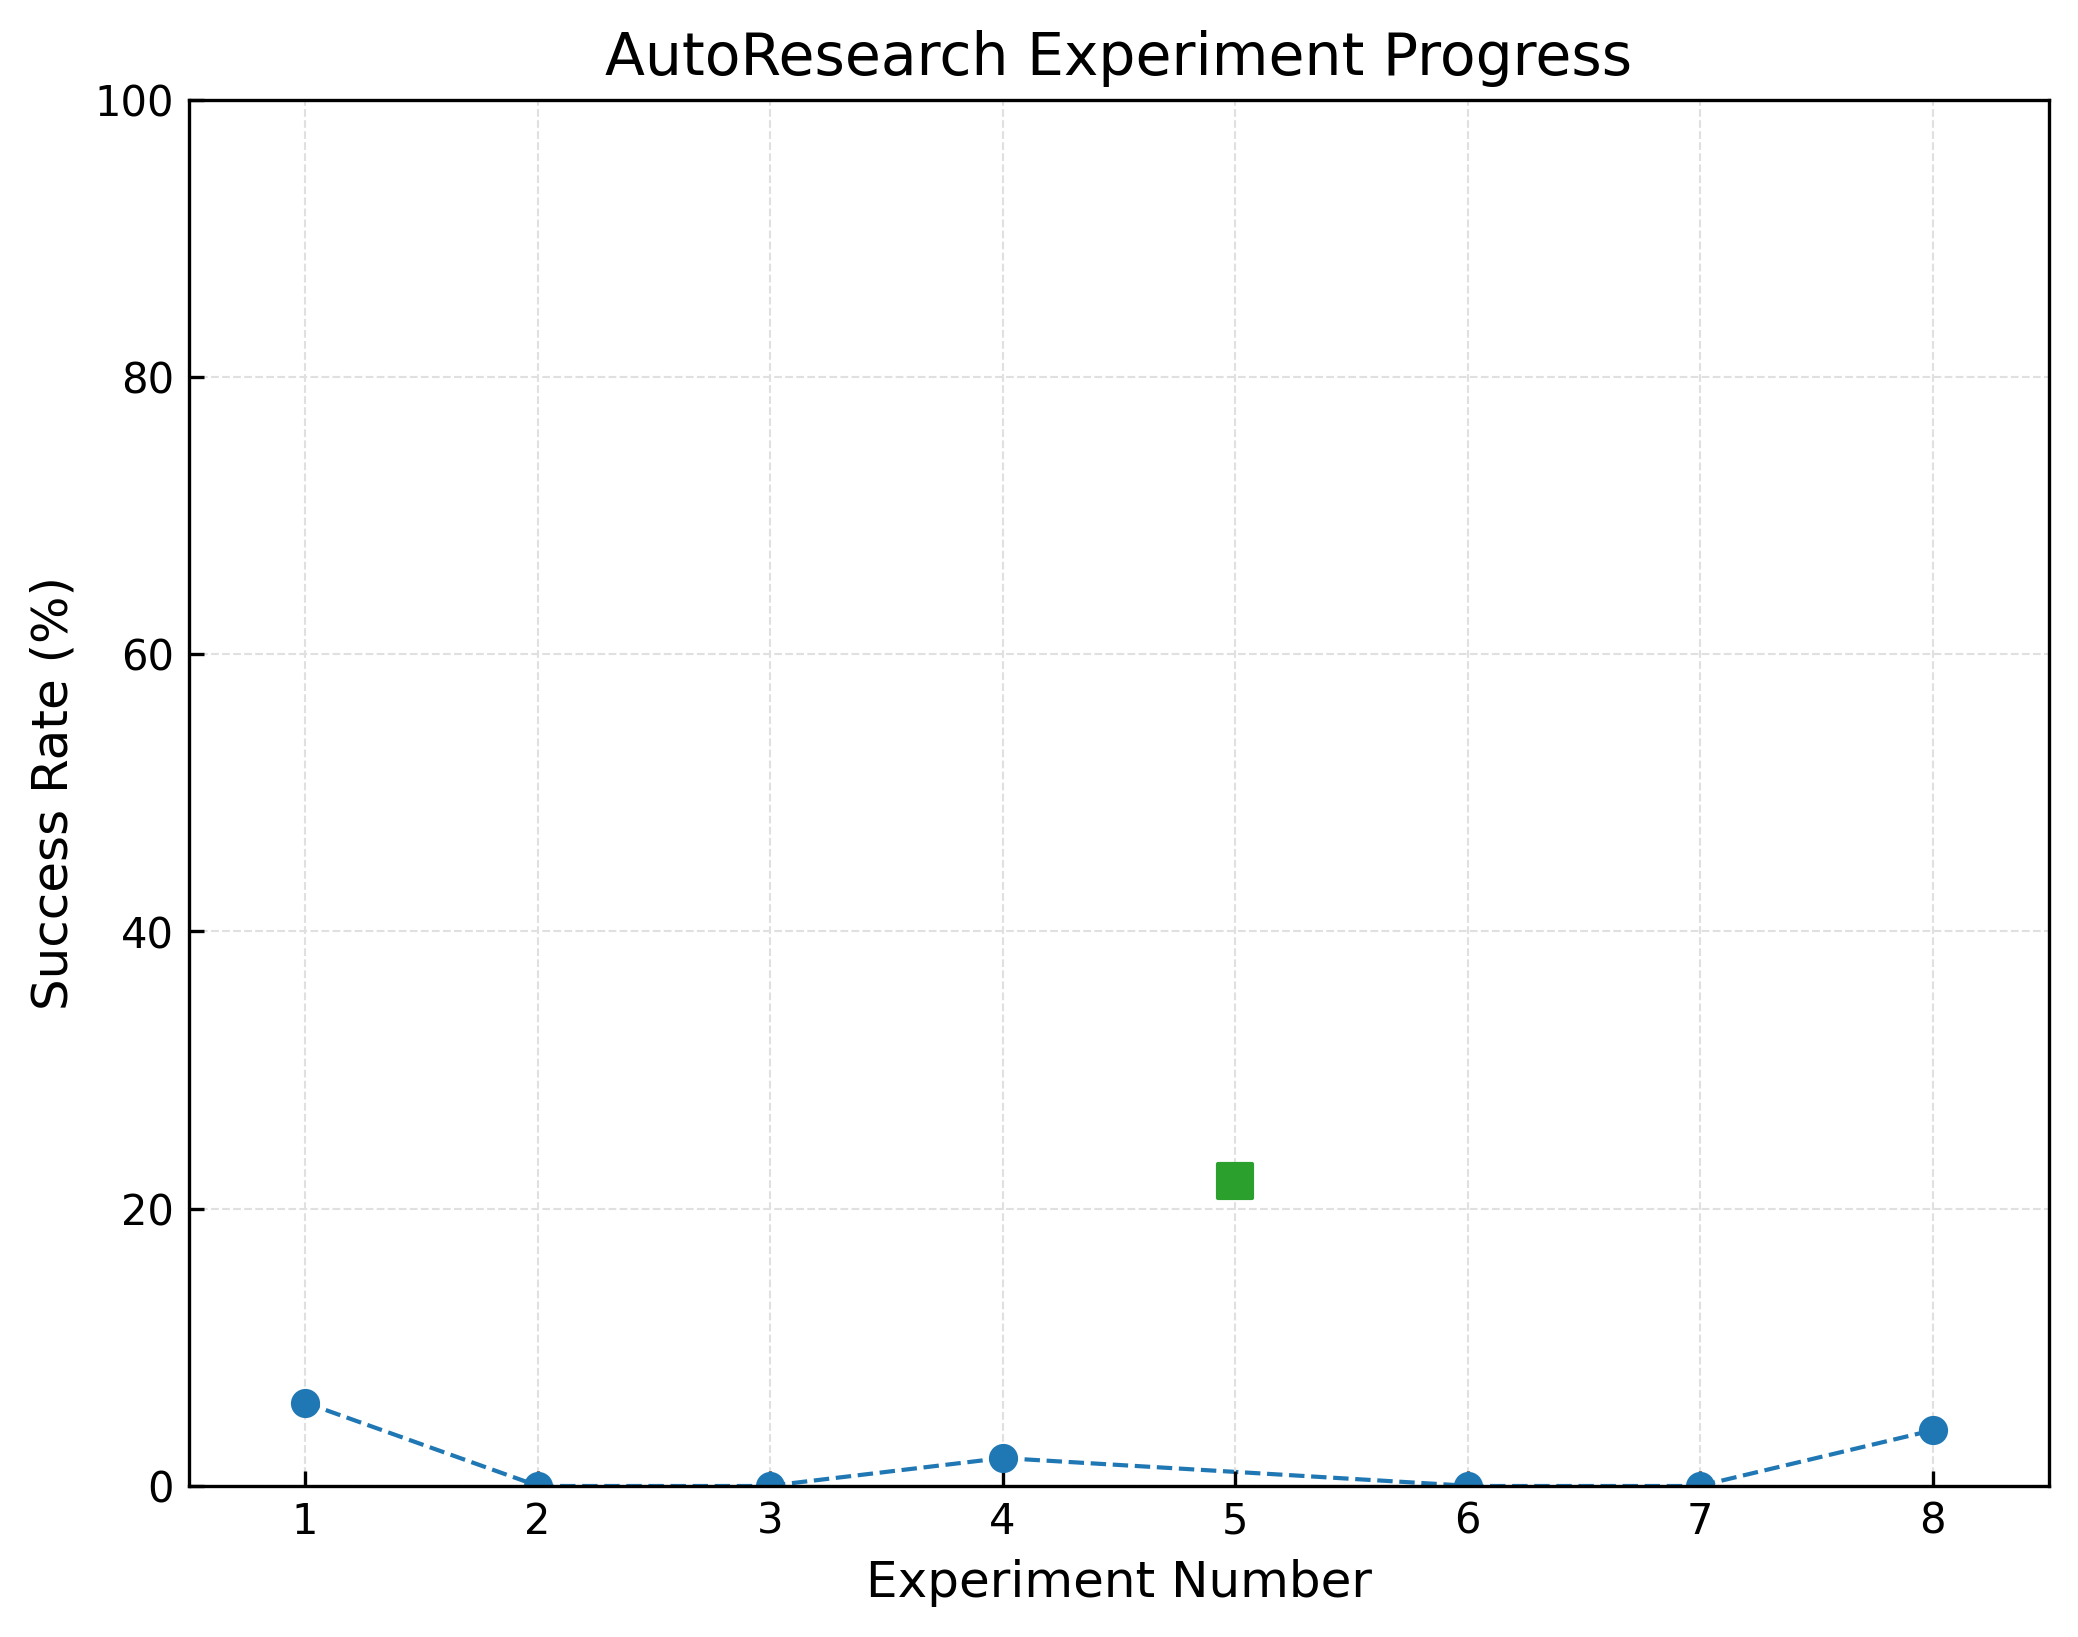
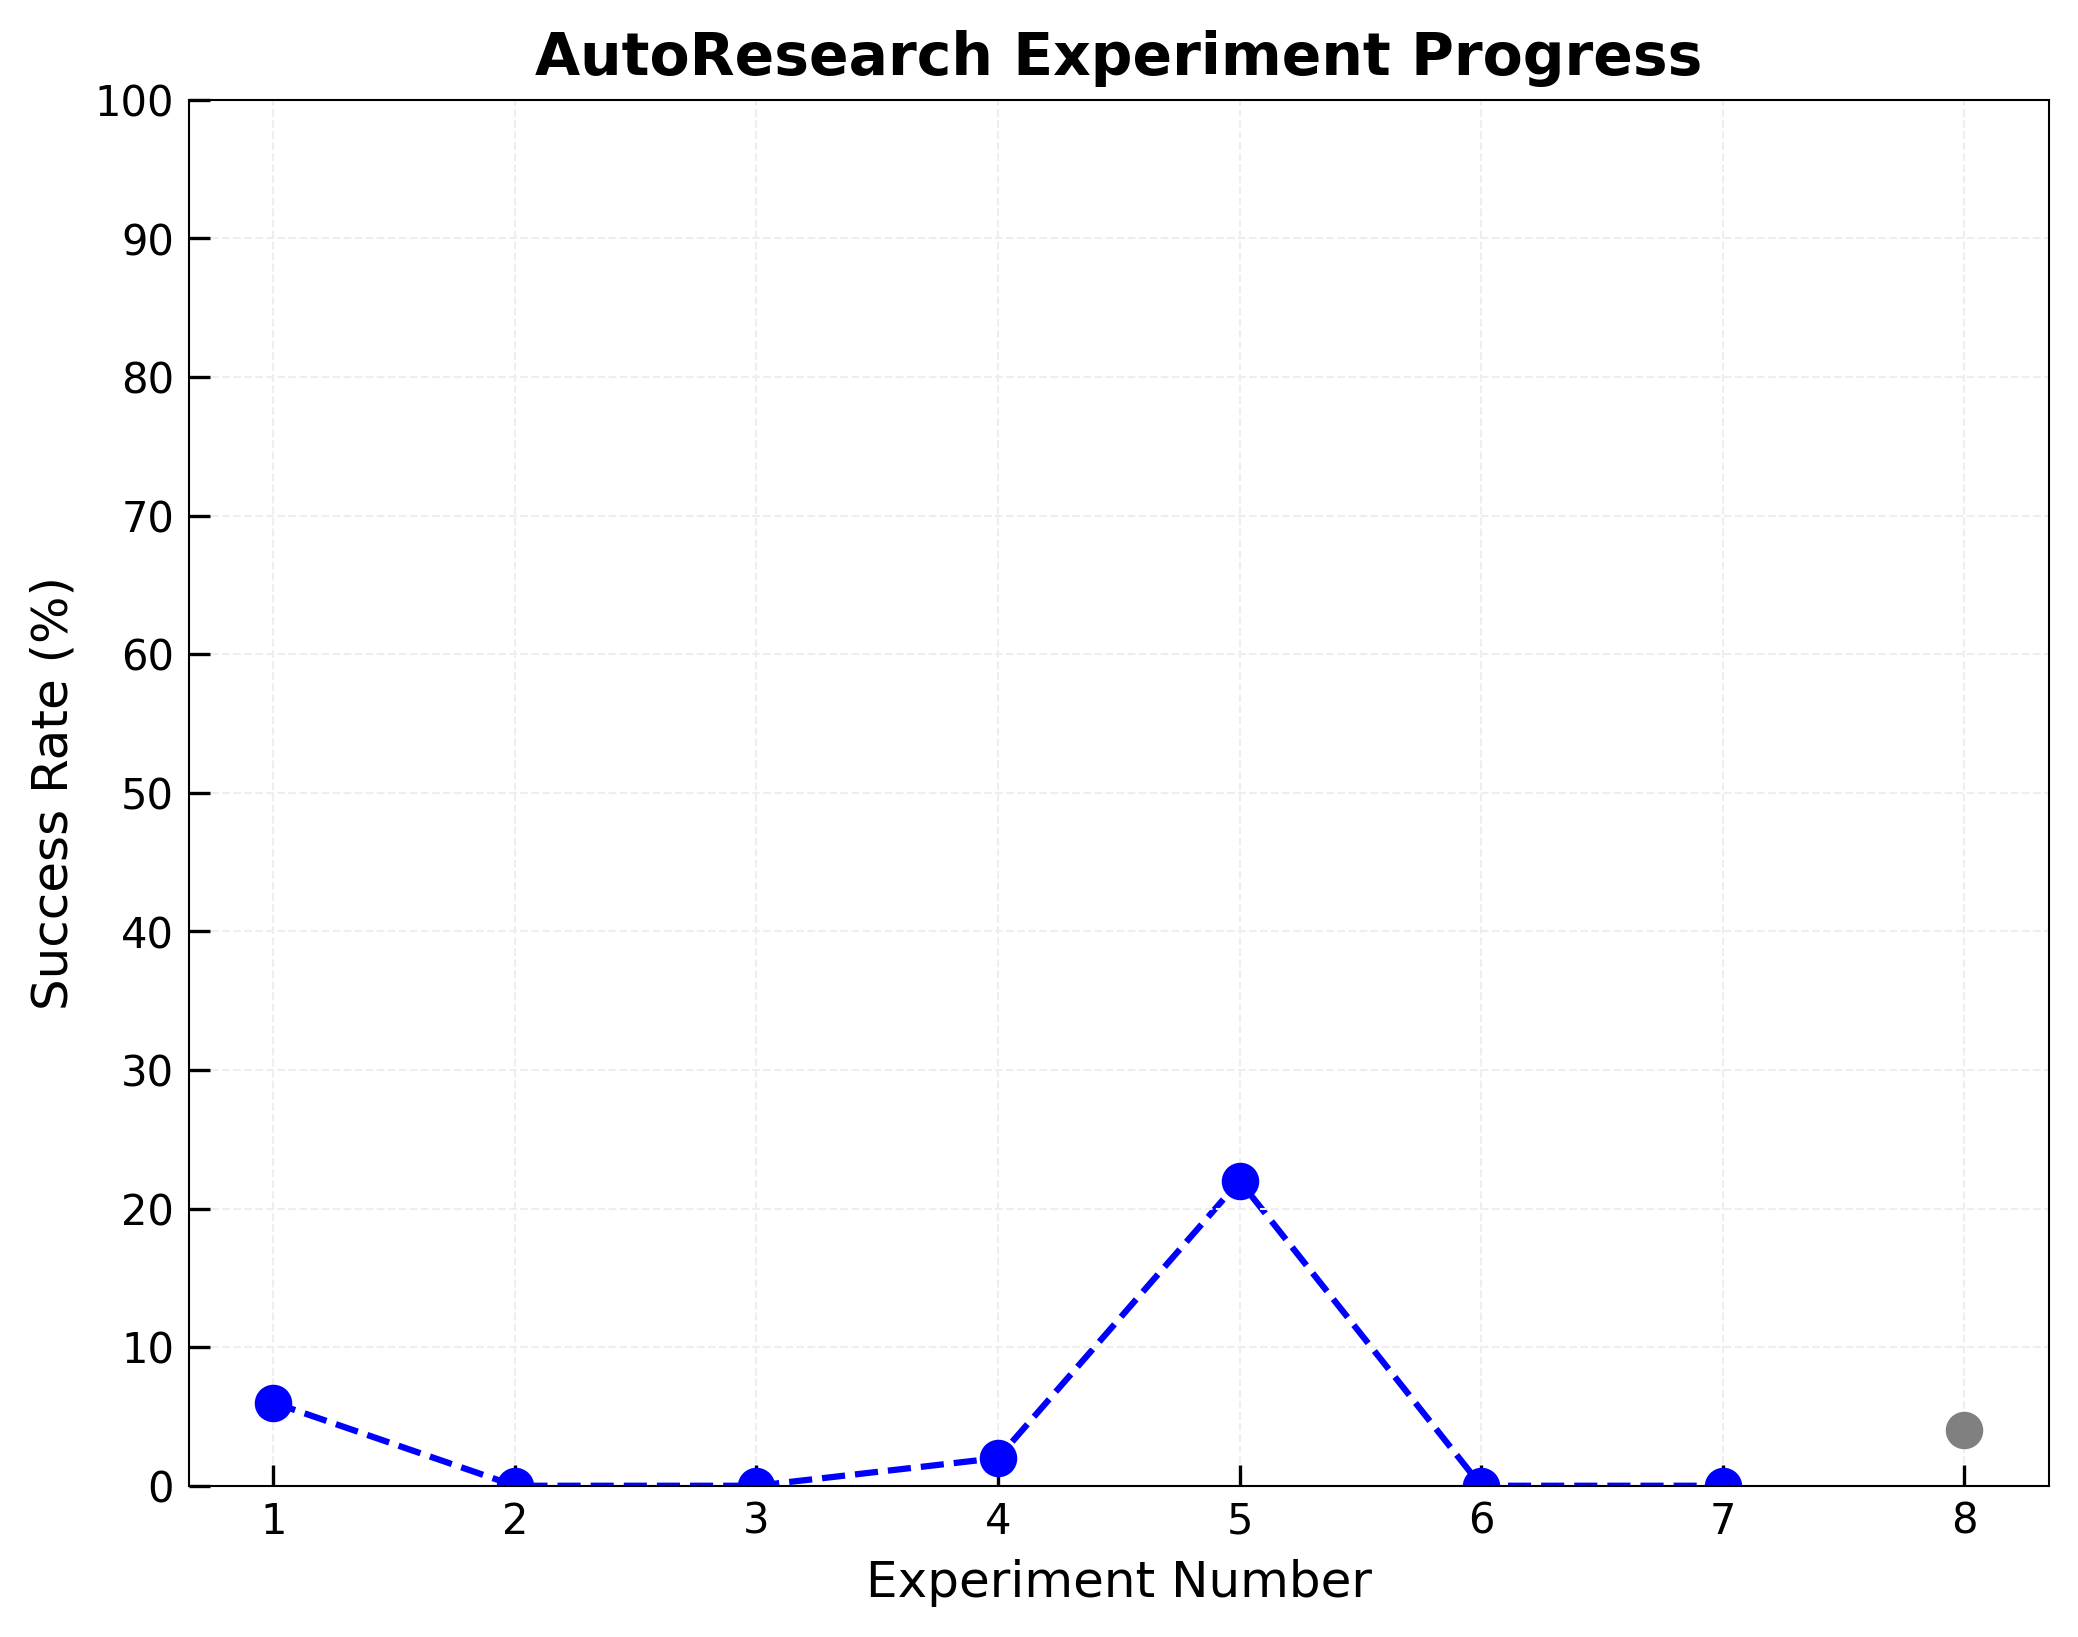
results: 8 experiments — auto-sync

diff --git a/RESULTS.md b/RESULTS.md
@@ -1,16 +1,16 @@
 # AutoResearch-MRL: Live Results
 
-> Last updated: **2026-03-14 13:02 UTC** | auto-generated every 5 min
+> Last updated: **2026-03-14 13:09 UTC** | auto-generated every 5 min
 
 ## Summary
 
 | Metric | Value |
 |--------|-------|
-| **Current Phase** | Phase 1: Baselines (8/9) |
+| **Current Phase** | Phase 1: Baselines (7/9) |
 | Total experiments | 8 |
-| Baselines complete | 8 / 9 |
+| Baselines complete | 7 / 9 |
 | Improvements kept | 0 |
-| Discarded | 0 |
+| Discarded | 1 |
 | Crashes | 0 |
 | Total GPU time | 431 min (7.2 hrs) |
 
@@ -29,7 +29,6 @@
 | act | AlohaTransferCube-v0 | 22.0% | 94.2 | 0.0 | 65 | 15213 |
 | vqbet | AlohaTransferCube-v0 | 0.0% | 0.0 | 0.0 | 65 | 7570 |
 | diffusion | AlohaInsertion-v0 | 0.0% | 6.3 | 0.0 | 65 | 11018 |
-| act | AlohaInsertion-v0 | 4.0% | 116.0 | 0.0 | 65 | 15616 |
 
 ## Training Efficiency
 
@@ -53,7 +52,7 @@
 | 5 | `ee4f0ea` | act | AlohaTransferCube-v0 | 22.0% | 94.2 | baseline | default act on AlohaTransferCube-v0 |
 | 6 | `5bf4180` | vqbet | AlohaTransferCube-v0 | 0.0% | 0.0 | baseline | default vqbet on AlohaTransferCube-v0 |
 | 7 | `4083c68` | diffusion | AlohaInsertion-v0 | 0.0% | 6.3 | baseline | default diffusion on AlohaInsertion-v0 |
-| 8 | `f0cd1ec` | act | AlohaInsertion-v0 | 4.0% | 116.0 | baseline | default act on AlohaInsertion-v0 |
+| 8 | `f0cd1ec` | act | AlohaInsertion-v0 | 4.0% | 116.0 | discard | default act on AlohaInsertion-v0 |
 
 </details>
 
